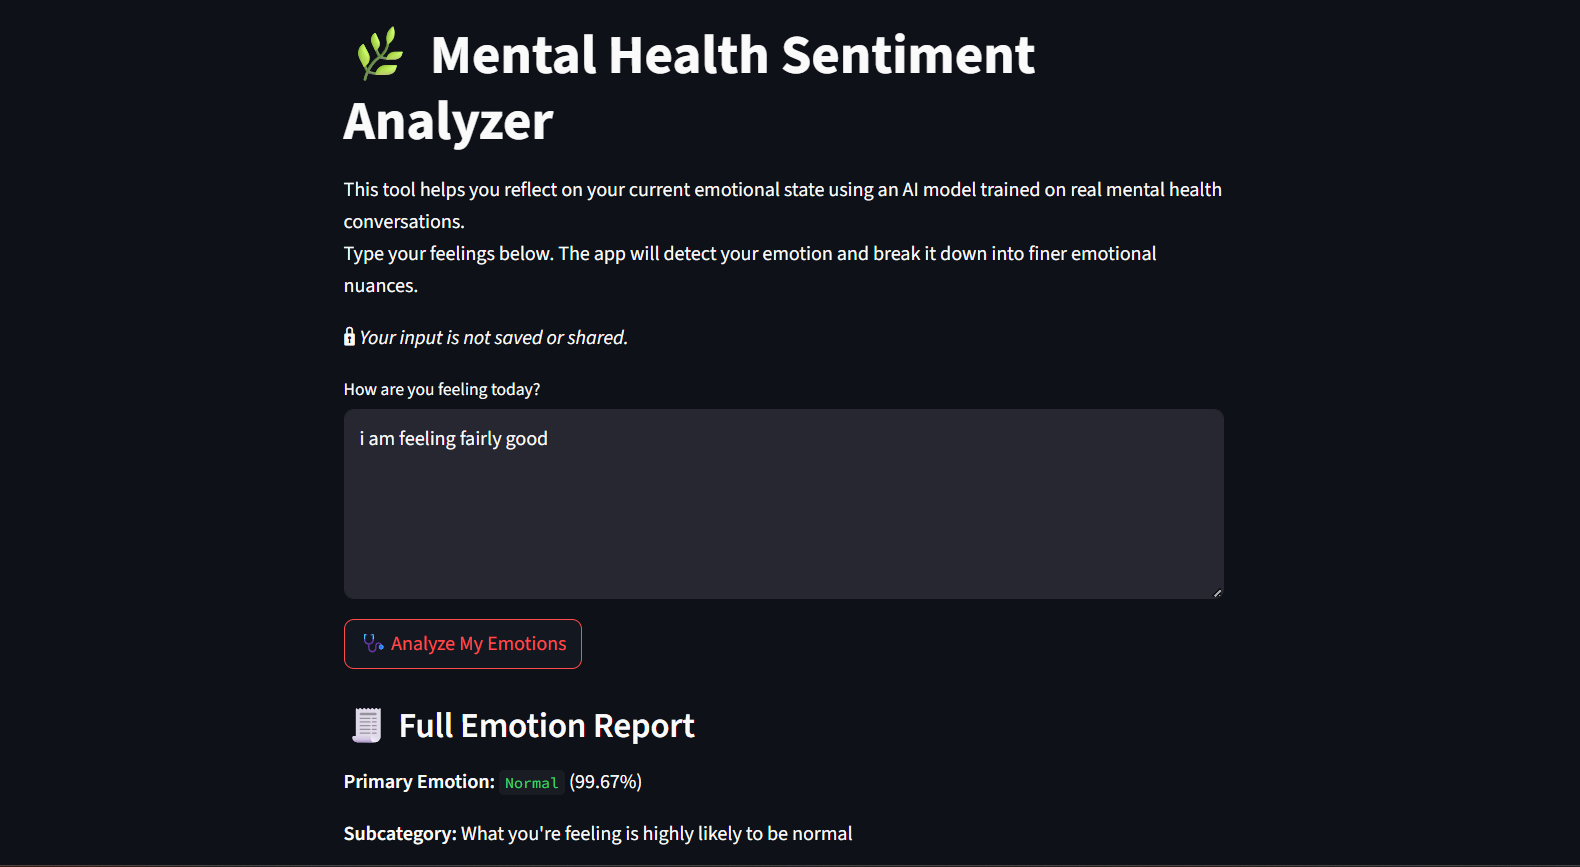
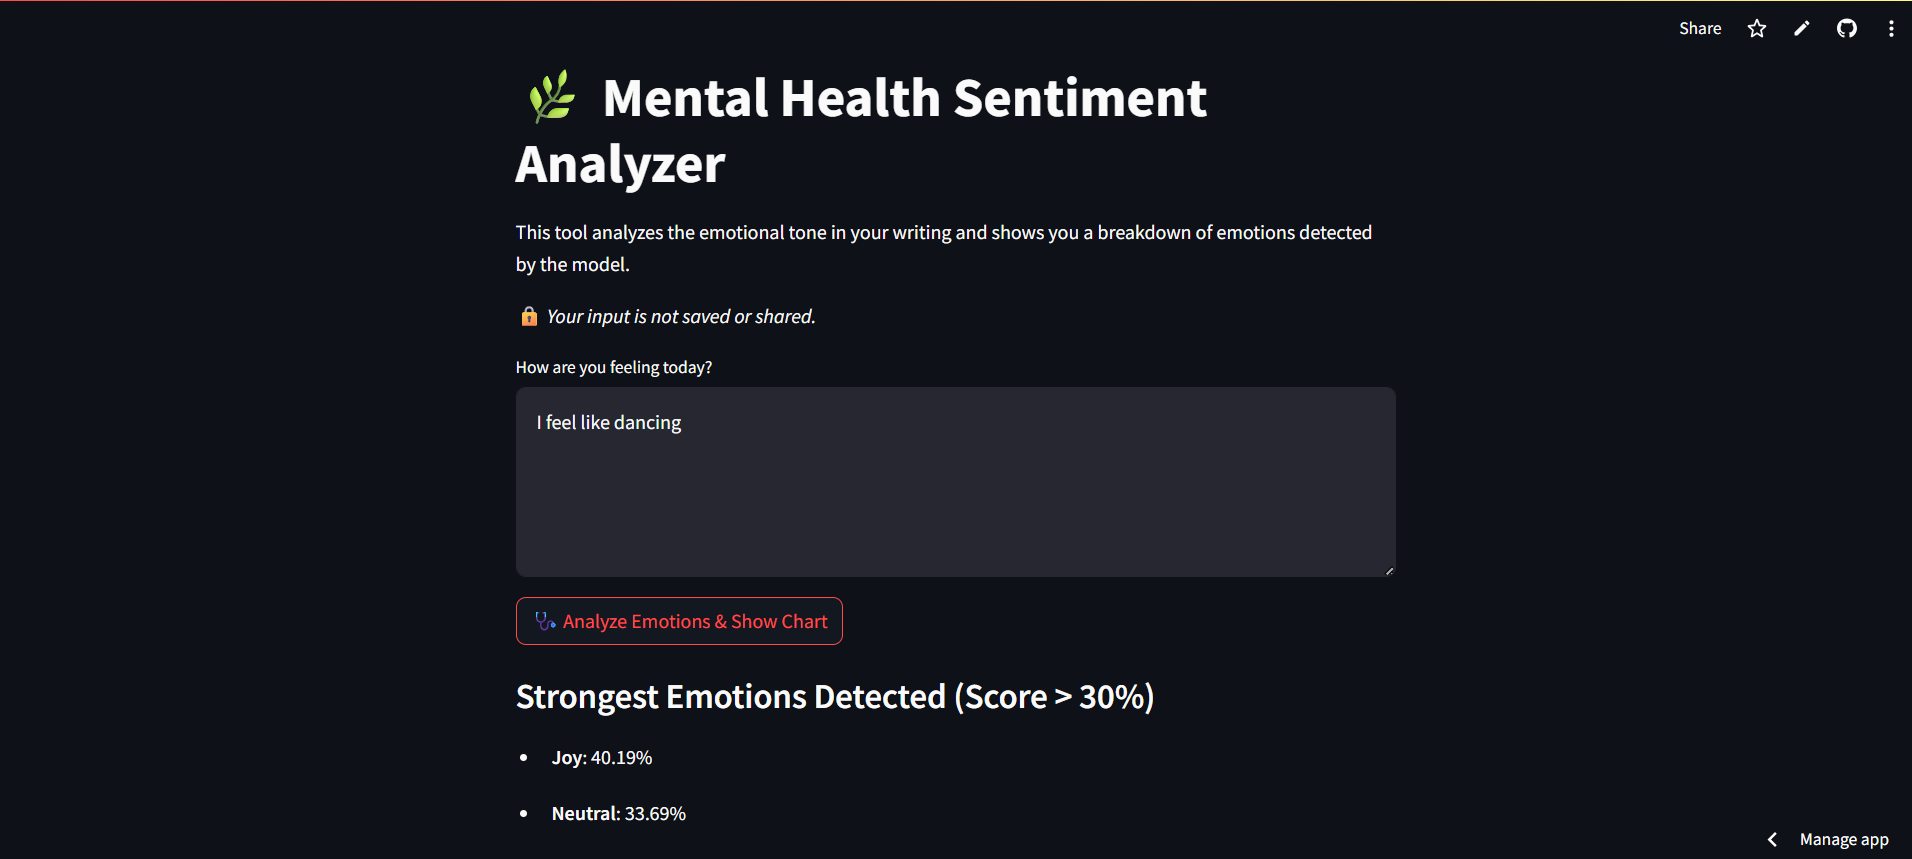
updates

diff --git a/README.md b/README.md
@@ -2,7 +2,10 @@
 
 A deep learning-powered mental health sentiment analysis tool that uses a fine-tuned RoBERTa model to classify emotional states such as **Depression**, **Anxiety**, **Suicidal thoughts**, **Stress**, **Bi-Polar**, **Personality Disorder**, and **Normal**. Built with NLP best practices and deployed through an interactive Streamlit web app.
 
-![Mental Health Sentiment Monitor](./preview.png)
+<p align="center">
+  <img src="./preview.png" alt="Mental Health Sentiment Analysis" width="45%" style="margin-right: 10px;">
+  <img src="./chart.png" alt="Sentiment Composition Chart" width="45%">
+</p>
 
 [Fine tuned RoBERTa model on Kaggle Dataset deployed on HuggingFace](https://huggingface.co/lishaangral/roberta-mental-health)
 [Additionlly Fine tuned version on Google Research Go Emotions Dataset](https://huggingface.co/lishaangral/roberta-mental-health-v2)
@@ -18,9 +21,9 @@ These sources provided diverse and labeled emotional data (stress, suicidal idea
 
 ---
 
-### 🌐 Use on Deployed App (Streamlit Cloud)
+## 🌐 Live App (Streamlit)
 
-> Visit the hosted URL [Streamlit Link](https://mental-health-sentiment-analysis.streamlit.app/)
+> 🖱 Try it live here: [https://mental-health-sentiment-analysis.streamlit.app](https://mental-health-sentiment-analysis.streamlit.app)
 
 ---
 
@@ -33,6 +36,8 @@ Mental health issues often go unnoticed in plain text. This project uses state-o
 ### Key Features
 
 - **97%+ Accuracy** on real-world clinical and social media mental health datasets
+- **Visual insights** via matplotlib-powered bar charts
+- Detects both **dominant mental states** and **underlying emotional tones**
 - **Fine-tuned RoBERTa** model for emotion classification
 - Trained on **45,000+ labeled entries** from both clinical and anonymized social media sources
 - **Streamlit Dashboard** to visualize emotion predictions
@@ -63,7 +68,7 @@ Mental health issues often go unnoticed in plain text. This project uses state-o
 | **Streamlit**                     | Interactive UI to collect and display sentiment predictions   |
 | **NLTK**                          | Natural Language Toolkit for preprocessing psychological text |
 | **Pandas**                        | Data handling and transformation                              |
-
+| **Matplotlib**                    | For sentiment bar chart visualization                         |
 ---
 
 ### How to Use
@@ -100,7 +105,6 @@ Type your current thoughts or mood, and the model will show emotion labels like 
 * **Fine-tune on Psychology Textbooks**: Expand the dataset by incorporating structured clinical content from DSM-5, psychology manuals, and academic books.
 * **Emotion Trend Tracker**: Track user emotion patterns over time using local storage or optional login-based persistence.
 * **Custom Alerts**: Notify users of critical emotional thresholds and suggest emergency contacts/resources.
-* **Multi-class Emotion Detection**: Extend classification to include emotions like *Guilt, Shame, Joy, Loneliness, Anger* using emotion wheel principles.
 * **Speech & OCR Input**: Accept voice and screenshot inputs to expand beyond typed interaction.
 * **Multilingual Support**: Include support for Hindi, Spanish, and other major languages.
 
